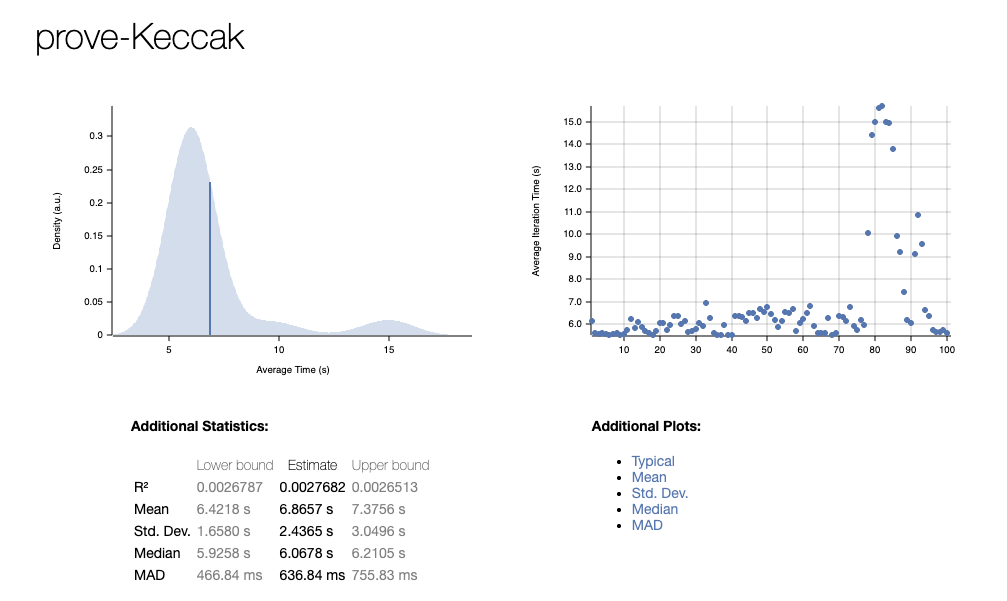
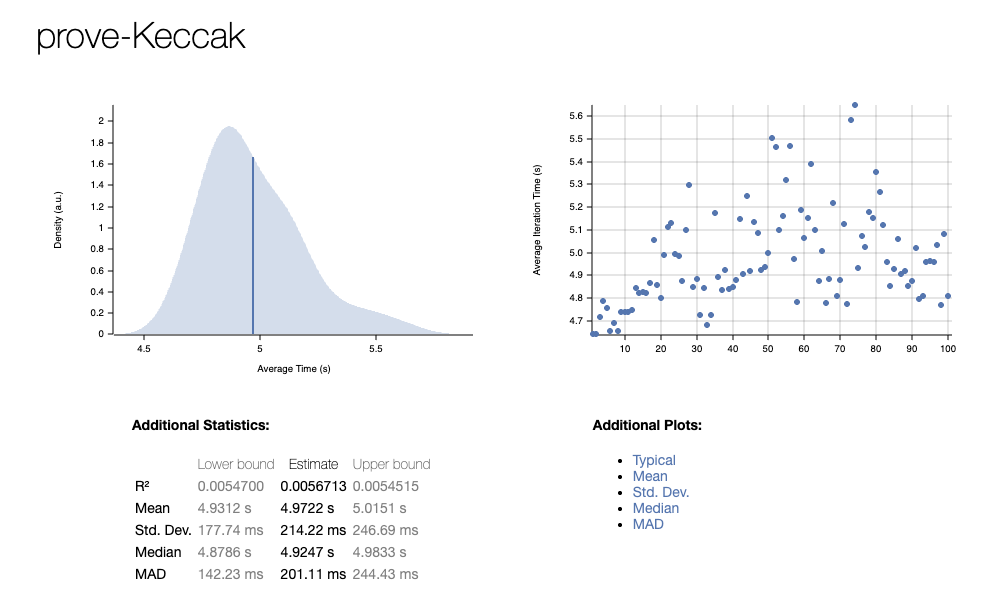
improved benchmarks

diff --git a/provekit/common/src/hash/mod.rs b/provekit/common/src/hash/mod.rs
@@ -23,7 +23,6 @@ use {
         merkle_tree::Config,
         Error,
     },
-    lazy_static::lazy_static,
     rand08::Rng,
     serde::{Deserialize, Serialize},
     spongefish::{
@@ -34,7 +33,7 @@ use {
         ByteDomainSeparator, DomainSeparator, ProofResult, ProverState, VerifierState,
     },
     spongefish_pow::PowStrategy,
-    std::{str::FromStr, sync::RwLock},
+    std::{str::FromStr, sync::atomic::{AtomicU8, Ordering}},
     whir::{crypto::merkle_tree::IdentityDigestConverter, whir::domainsep::DigestDomainSeparator},
     zeroize::Zeroize,
 };
@@ -46,24 +45,25 @@ pub mod skyscraper;
 
 mod utils;
 
-lazy_static! {
-    static ref CURRENT_HASH_FUNCTION: RwLock<HashFunction> = RwLock::new(HashFunction::Skyscraper);
-}
+// Use AtomicU8 for lock-free reads in hot paths
+static CURRENT_HASH_FUNCTION: AtomicU8 = AtomicU8::new(HashFunction::Skyscraper as u8);
 
 pub fn set_hash_function(hash_fn: HashFunction) {
-    *CURRENT_HASH_FUNCTION.write().unwrap() = hash_fn;
+    CURRENT_HASH_FUNCTION.store(hash_fn as u8, Ordering::Release);
 }
 
+#[inline(always)]
 pub fn get_hash_function() -> HashFunction {
-    *CURRENT_HASH_FUNCTION.read().unwrap()
+    unsafe { std::mem::transmute(CURRENT_HASH_FUNCTION.load(Ordering::Relaxed)) }
 }
 
 #[derive(Clone, Copy, Debug, PartialEq, Eq, Serialize, Deserialize)]
+#[repr(u8)]
 pub enum HashFunction {
-    Sha2,
-    Blake3,
-    Keccak,
-    Skyscraper,
+    Sha2 = 0,
+    Blake3 = 1,
+    Keccak = 2,
+    Skyscraper = 3,
 }
 
 impl HashFunction {
@@ -209,6 +209,7 @@ impl CRHScheme for CRH {
         Ok(())
     }
 
+    #[inline]
     fn evaluate<T: std::borrow::Borrow<Self::Input>>(
         _: &Self::Parameters,
         input: T,
@@ -231,6 +232,7 @@ impl TwoToOneCRHScheme for TwoToOneCRH {
         Ok(())
     }
 
+    #[inline]
     fn evaluate<T: std::borrow::Borrow<Self::Input>>(
         _: &Self::Parameters,
         l: T,
@@ -246,6 +248,7 @@ impl TwoToOneCRHScheme for TwoToOneCRH {
         }
     }
 
+    #[inline]
     fn compress<T: std::borrow::Borrow<Self::Output>>(
         p: &Self::Parameters,
         l: T,
@@ -347,13 +350,12 @@ impl IOPattern {
         }
     }
     fn to_domain_separator_string(&self) -> String {
-        let transcript_bytes = match self {
-            Self::Sha2(io) => io.as_bytes(),
-            Self::Blake3(io) => io.as_bytes(),
-            Self::Keccak(io) => io.as_bytes(),
-            Self::Skyscraper(io) => io.as_bytes(),
-        };
-        String::from_utf8(transcript_bytes.to_vec()).unwrap()
+        match self {
+            Self::Sha2(io) => String::from_utf8(io.as_bytes().to_vec()).unwrap(),
+            Self::Blake3(io) => String::from_utf8(io.as_bytes().to_vec()).unwrap(),
+            Self::Keccak(io) => String::from_utf8(io.as_bytes().to_vec()).unwrap(),
+            Self::Skyscraper(io) => String::from_utf8(io.as_bytes().to_vec()).unwrap(),
+        }
     }
     pub fn to_prover_state(&self) -> ProverState<Sponge, FieldElement> {
         let domain_separator =

diff --git a/benchmarks/benchmark.md b/benchmarks/benchmark.md
@@ -49,7 +49,7 @@ Example output:
 
 | Hash Function | Proving Time (Mean) | Verification Time (Mean) | Prover Chart                          | Verifier Chart                         |
 | ------------- | ------------------- | ------------------------ | ------------------------------------- | -------------------------------------- |
-| Skyscraper    | 6.4895s              | 35.010ms                 | ![Skyscraper](./skyscraper/prove.png) | ![Skyscraper](./skyscraper/verify.png) |
-| SHA2          | 6.1671s              | 30.387ms                 | ![SHA2](./sha2/prove.png)             | ![SHA2](./sha2/verify.png)             |
-| Blake3        | 5.3849s              | 27.194ms                 | ![Blake3](./blake3/prove.png)         | ![Blake3](./blake3/verify.png)         |
-| Keccak        | 6.8657s              | 28.381ms                 | ![Keccak](./keccak/prove.png)         | ![Keccak](./keccak/verify.png)         |
+| Skyscraper    | 5.9175s             | 33.337ms                 | ![Skyscraper](./skyscraper/prove.png) | ![Skyscraper](./skyscraper/verify.png) |
+| SHA2          | 5.3425s             | 30.566ms                 | ![SHA2](./sha2/prove.png)             | ![SHA2](./sha2/verify.png)             |
+| Blake3        | 4.2266s             | 26.723ms                 | ![Blake3](./blake3/prove.png)         | ![Blake3](./blake3/verify.png)         |
+| Keccak        | 4.9722s             | 28.573ms                 | ![Keccak](./keccak/prove.png)         | ![Keccak](./keccak/verify.png)         |
